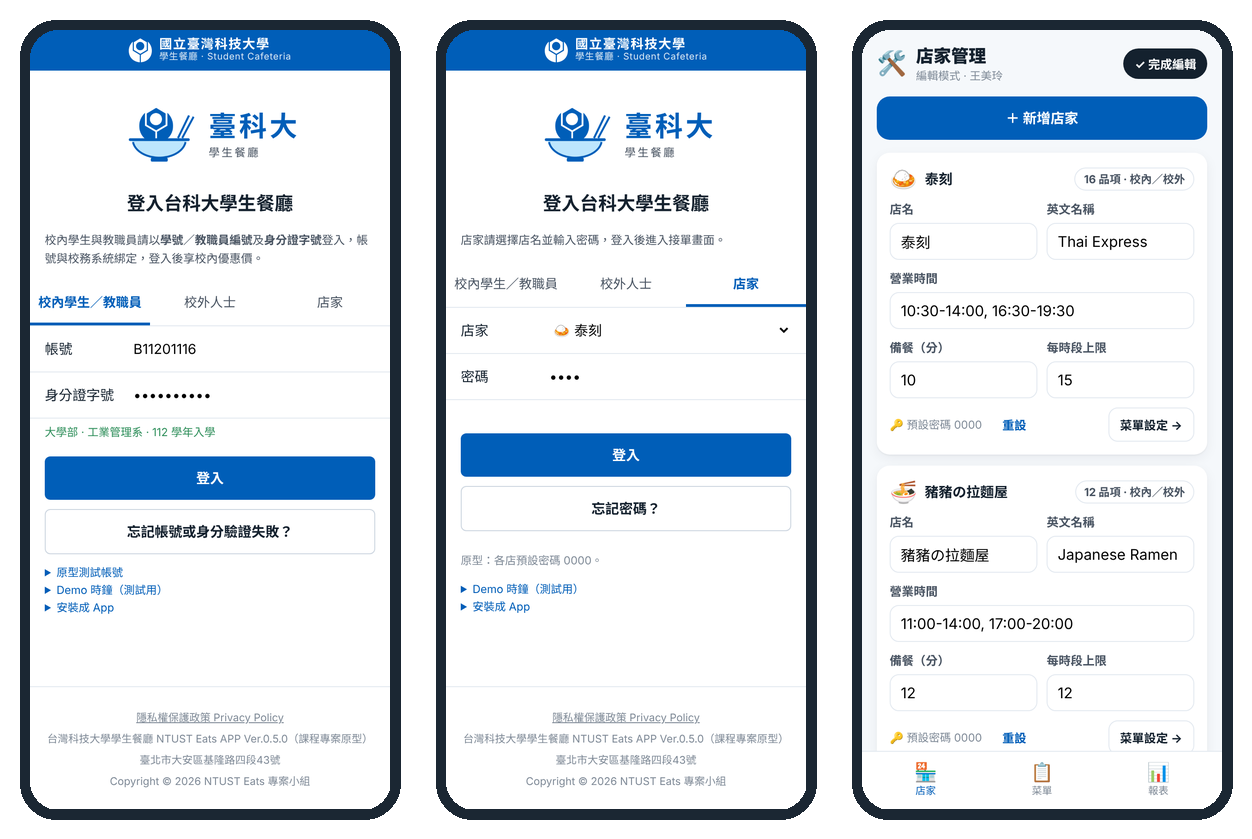
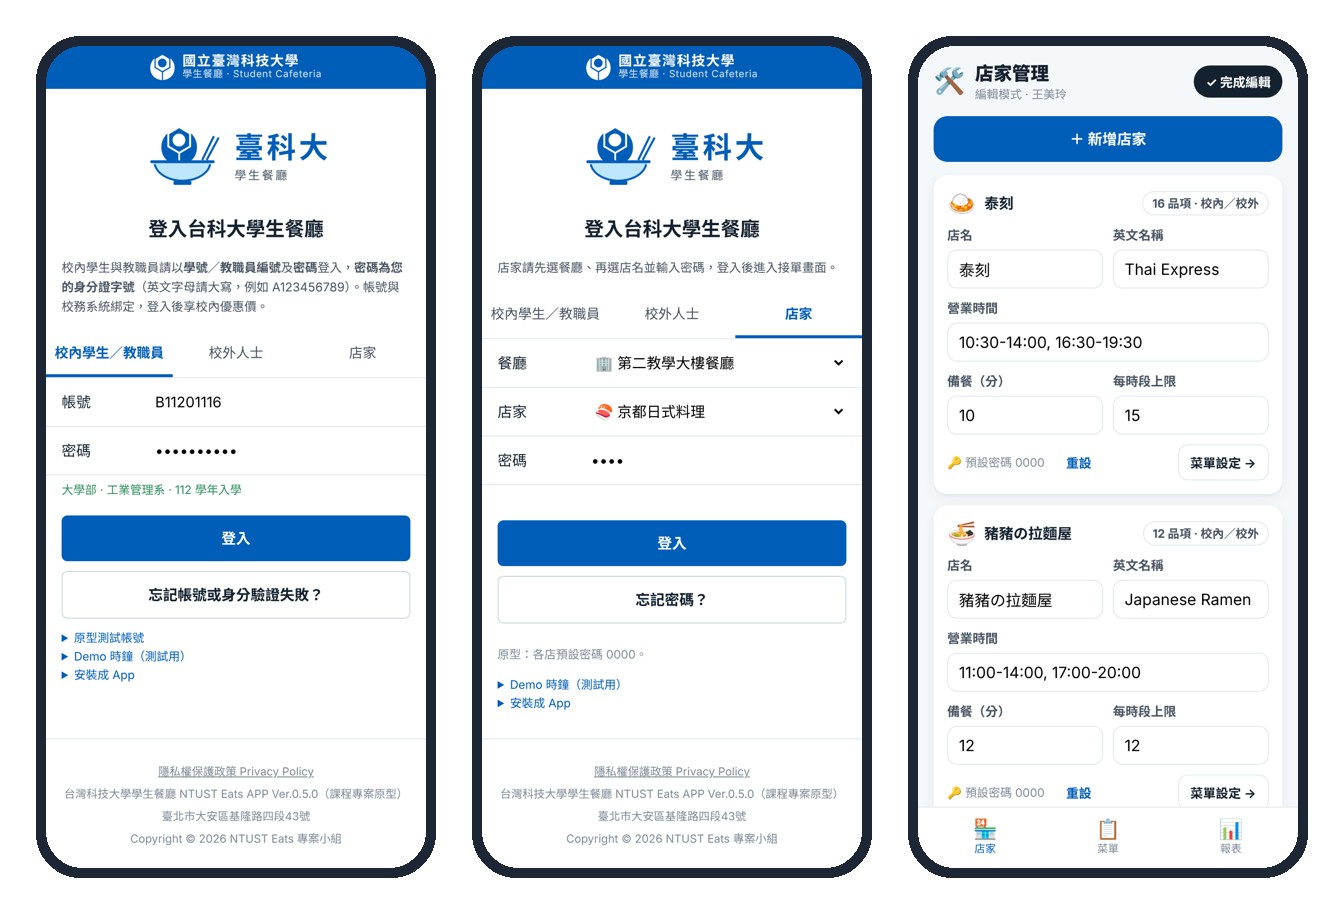
SRS v1.1：依 CR-01～09 回寫為兩個餐廳 17 家店；Backlog、AI 紀錄、截圖同步目前系統
Claude-Session: https://claude.ai/code/session_017jSi1PNAT7cMJzLBuDKtYd

diff --git a/docs/ai/ai-in-process.md b/docs/ai/ai-in-process.md
@@ -7,7 +7,7 @@
 | 步驟 | AI 做了什麼 | 誰批准 | 我們拒絕／修改了什麼 |
 |---|---|---|---|
 | 1. 需求訪談 | 無（由組員訪談、整理） | — | — |
-| 2. 菜單數位化 | 把四家店紙本菜單轉成 `data/menu.json`（210 品項） | 【組員】抽查 | 【填入：抽查發現的錯字或價格錯誤】 |
+| 2. 菜單數位化 | 把紙本菜單轉成 `data/menu.json`（最初四家店 210 品項，依 CR-01、CR-09 擴充為 17 家店 734 品項） | 【組員】抽查 | 【填入：抽查發現的錯字或價格錯誤】 |
 | 3. SRS 初稿 | 依訪談與菜單草擬 SRS v0.1（ISO 29148 架構） | 不批准（僅草稿） | 整份經 3 輪審查 |
 | 4. 找模糊需求 | 列出 7 個不可量測字詞 | 【組員】 | 數值由組員依訪談決定（15 筆／時段、5 秒、10 秒…） |
 | 5. 找遺漏需求 | 訪談 × 需求覆蓋矩陣，標出 I-04、I-06、I-13、I-14 未覆蓋 | 【組員】 | 【組員另外發現的遺漏，如並行搶名額、價格異常】 |

diff --git a/docs/ai/ai-usage-log.md b/docs/ai/ai-usage-log.md
@@ -10,7 +10,7 @@
 | # | 提問（摘要） | 產出 | 接受／拒絕 | 原因 |
 |---|---|---|---|---|
 | 1 | 依作業說明與四家店菜單，訂題目並產出 SRS 初稿 | NTUST Eats、SRS v0.1 | 部分接受 | 架構可用，內容需三輪審查 |
-| 2 | 把紙本菜單轉成結構化資料 | menu.json（210 品項） | 【抽查後接受／修正】 | 【抽查結果】 |
+| 2 | 把紙本菜單轉成結構化資料 | menu.json（最初 210 品項，現為 17 家店 734 品項） | 【抽查後接受／修正】 | 【抽查結果】 |
 | 3 | 列出 SRS 中不可量測的字詞 | 7 項 | 接受 | 數值由組員依訪談決定 |
 | 4 | 做訪談 × 需求覆蓋矩陣 | 4 項訪談未覆蓋 | 接受 | 確實遺漏 |
 | 5 | 由 SRS 產生 PlantUML | 6 張圖 | 修改後接受 | 含 AI 自創的 Payment／Delivery 類別 |

diff --git a/docs/agile/product-backlog.md b/docs/agile/product-backlog.md
@@ -25,9 +25,9 @@
 - **AC1** 以手機號碼＋簡訊驗證碼註冊成功。
 - **AC2** 所有品項顯示校外價（例：打拋豬肉飯便當 135）。
 
-### US-03 瀏覽四家店菜單 (E2) — 3 pts
-**As a** 學生 **I want** 在一個畫面切換四家店的菜單 **so that** 快速比較要吃什麼。
-- **AC1** 顯示四家店卡片、營業狀態與目前最早可取餐時段。
+### US-03 瀏覽各店菜單 (E2) — 3 pts
+**As a** 學生 **I want** 在一個畫面切換各店的菜單 **so that** 快速比較要吃什麼。
+- **AC1** 顯示所選餐廳各店卡片、營業狀態與目前最早可取餐時段。
 - **AC2** 進入店家後依分類顯示品項：中文名、英文名、價格、標籤（VEGAN、辣度、校園限定）。
 - **AC3** 售完品項灰階顯示且不能加入購物車。
 

diff --git a/docs/interview-notes.md b/docs/interview-notes.md
@@ -1,6 +1,6 @@
 # 需求訪談紀錄 (Interview Notes)
 
-> 本文件與 `data/menu.json`（四家店的紙本菜單）是所有需求的**唯一來源**。
+> 本文件與 `data/menu.json`（各店紙本菜單：最初為四家店，之後依 CR-01、CR-09 擴充為兩個餐廳 17 家店）是所有需求的**唯一來源**。
 > SRS 與 User Story 的每一條需求都必須追溯到某個訪談編號 I-xx；追溯不到的就是「AI 自己加的需求」，審查時刪除或移到 Future Scope。
 
 ---
